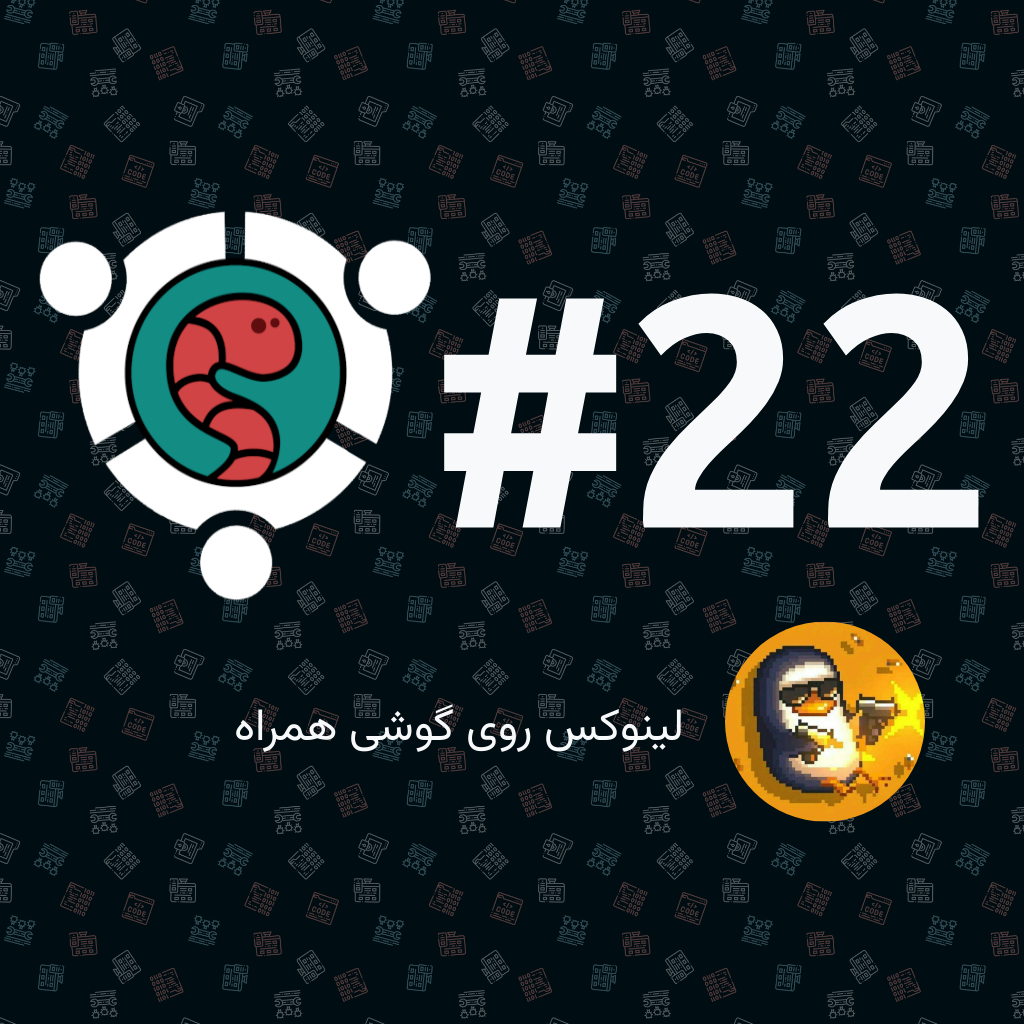
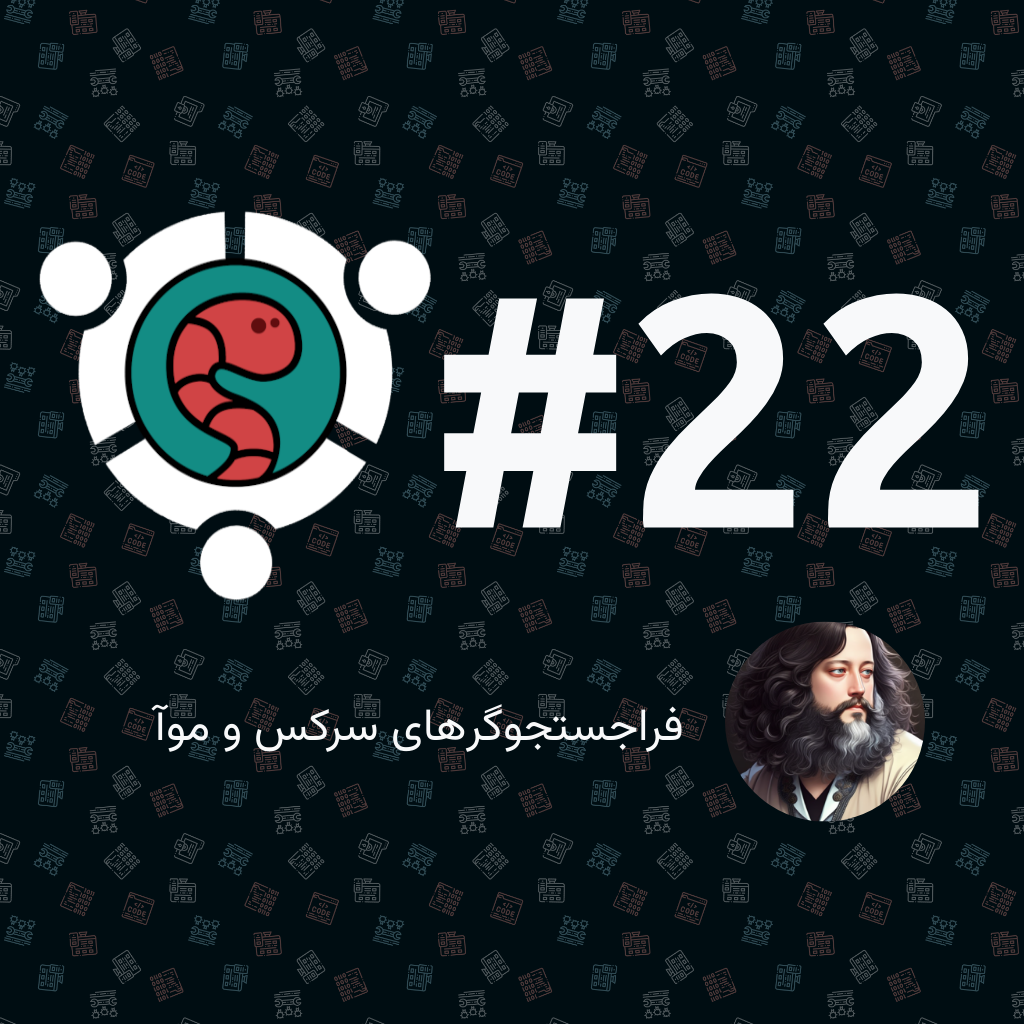
deploy: 8768397a4b5ab9dc2286f8c14b54eb39f75edb2c

Changed region(s): [[0.1562, 0.5938, 0.9062, 0.8125]]

diff --git a/22/index.html b/22/index.html
@@ -6,7 +6,7 @@
     <meta name="viewport" content="width=device-width, initial-scale=1.0">
     <meta property="og:title" content="#22 - دورهمی کرمهای کامپیوتر" />
     <meta name="og:description" content="دورهمی های کرمهای کامپیوتر - جمعه هر هفته ساعت شش
- این هفته با ارائه «سهراب بهدانی» درباره لینوکس روی گوشی همراه">
+ این هفته با ارائه «جعفر فرقانلوژ» درباره فراجستجوگرهای سرکس و موآ">
     <meta property="og:url" content="https://meet.pcworms.ir" />
     <meta property="og:image" content="./preview.png" />
     <title>دورهمی های کرم های کامپیوتر</title>
@@ -103,12 +103,12 @@
         <div class="row justify-content-center">
             <div class="col-12 col-sm-10 col-md-8 p-2 subject-bg">
                 <div class=" row align-items-center">
-                    <div class="col-auto float-start text-center"><img src="assets&#x2F;avatars&#x2F;sohrab.jpg" class="profile"></div>
+                    <div class="col-auto float-start text-center"><img src="assets&#x2F;avatars&#x2F;mehr32.png" class="profile"></div>
                     <div class="col">
                         <small class="speaker d-block">
-                            این هفته با «سهراب بهدانی» درباره:
+                            این هفته با «جعفر فرقانلوژ» درباره:
                         </small>
-                        <h2 class="subject">لینوکس روی گوشی همراه</h2>
+                        <h2 class="subject">فراجستجوگرهای سرکس و موآ</h2>
                         <div class="text-center">
                             <small class="time" id="counter"></small>
                         </div>

diff --git a/index.html b/index.html
@@ -6,7 +6,7 @@
     <meta name="viewport" content="width=device-width, initial-scale=1.0">
     <meta property="og:title" content="#22 - دورهمی کرمهای کامپیوتر" />
     <meta name="og:description" content="دورهمی های کرمهای کامپیوتر - جمعه هر هفته ساعت شش
- این هفته با ارائه «سهراب بهدانی» درباره لینوکس روی گوشی همراه">
+ این هفته با ارائه «جعفر فرقانلوژ» درباره فراجستجوگرهای سرکس و موآ">
     <meta property="og:url" content="https://meet.pcworms.ir" />
     <meta property="og:image" content="./preview.png" />
     <title>دورهمی های کرم های کامپیوتر</title>
@@ -103,12 +103,12 @@
         <div class="row justify-content-center">
             <div class="col-12 col-sm-10 col-md-8 p-2 subject-bg">
                 <div class=" row align-items-center">
-                    <div class="col-auto float-start text-center"><img src="assets&#x2F;avatars&#x2F;sohrab.jpg" class="profile"></div>
+                    <div class="col-auto float-start text-center"><img src="assets&#x2F;avatars&#x2F;mehr32.png" class="profile"></div>
                     <div class="col">
                         <small class="speaker d-block">
-                            این هفته با «سهراب بهدانی» درباره:
+                            این هفته با «جعفر فرقانلوژ» درباره:
                         </small>
-                        <h2 class="subject">لینوکس روی گوشی همراه</h2>
+                        <h2 class="subject">فراجستجوگرهای سرکس و موآ</h2>
                         <div class="text-center">
                             <small class="time" id="counter"></small>
                         </div>

diff --git a/22/preview.html b/22/preview.html
@@ -28,9 +28,9 @@
             <div class="col-12 col-md-10 p-2"">
                 <div class=" row align-items-center">
                 <div class="col">
-                    <h2 class="subject" dir="rtl">لینوکس روی گوشی همراه</h1>
+                    <h2 class="subject" dir="rtl">فراجستجوگرهای سرکس و موآ</h1>
                 </div>
-                <div class="col-auto float-start text-center"><img src="assets&#x2F;avatars&#x2F;sohrab.jpg" class="profile"></div>
+                <div class="col-auto float-start text-center"><img src="assets&#x2F;avatars&#x2F;mehr32.png" class="profile"></div>
             </div>
         </div>
     </div>

diff --git a/preview.html b/preview.html
@@ -28,9 +28,9 @@
             <div class="col-12 col-md-10 p-2"">
                 <div class=" row align-items-center">
                 <div class="col">
-                    <h2 class="subject" dir="rtl">لینوکس روی گوشی همراه</h1>
+                    <h2 class="subject" dir="rtl">فراجستجوگرهای سرکس و موآ</h1>
                 </div>
-                <div class="col-auto float-start text-center"><img src="assets&#x2F;avatars&#x2F;sohrab.jpg" class="profile"></div>
+                <div class="col-auto float-start text-center"><img src="assets&#x2F;avatars&#x2F;mehr32.png" class="profile"></div>
             </div>
         </div>
     </div>
